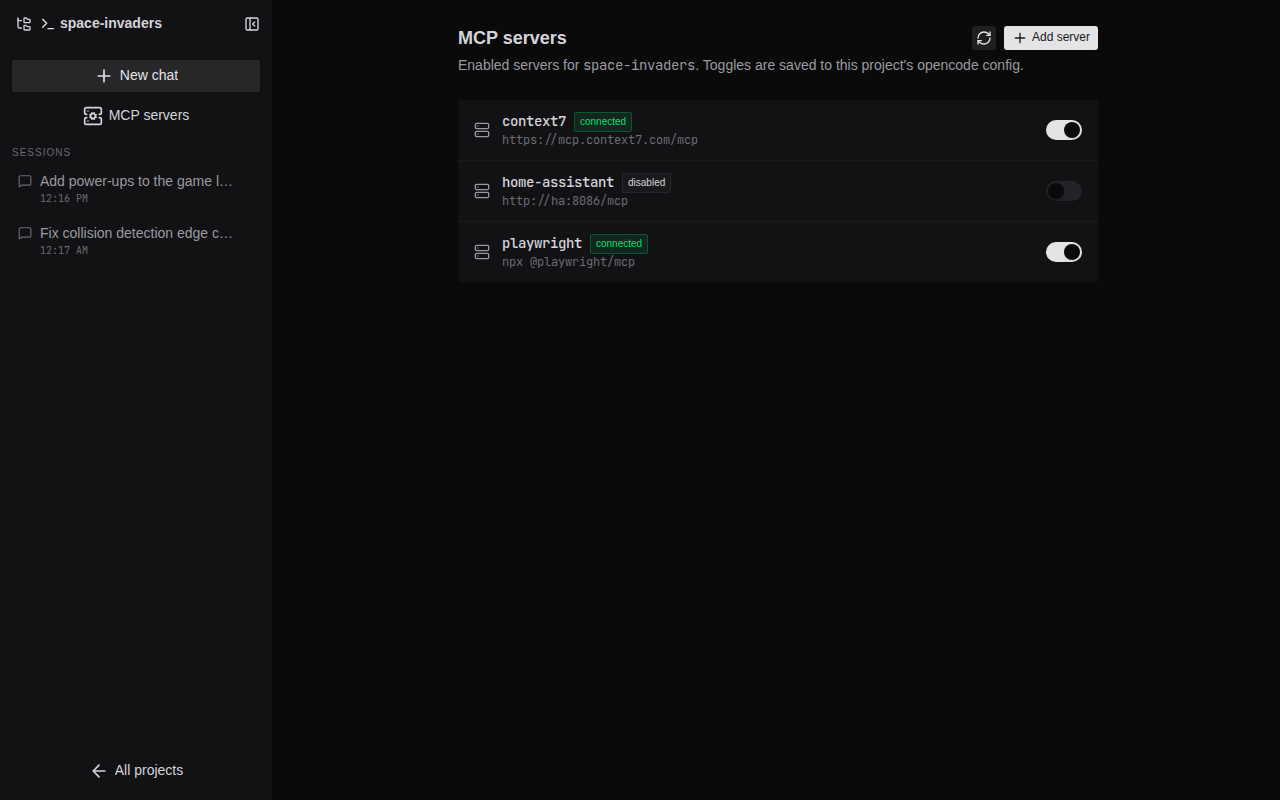
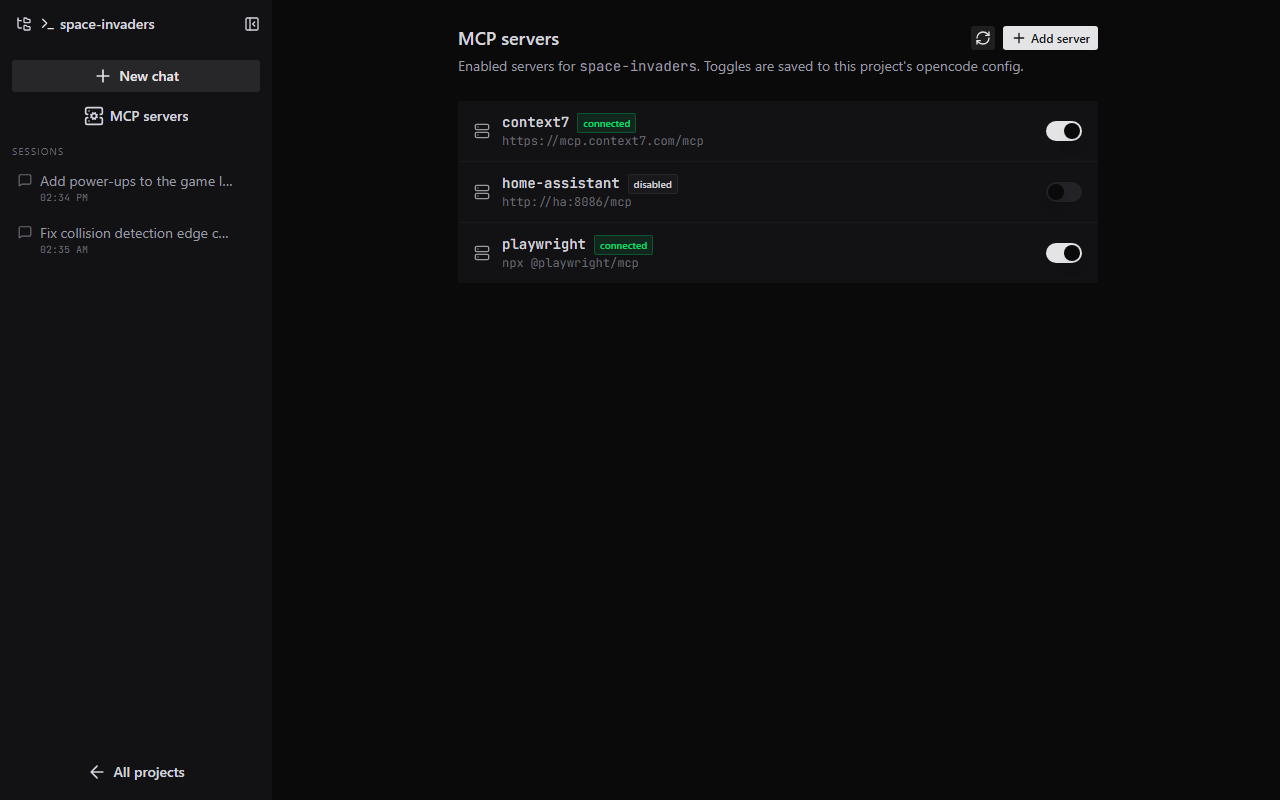
fix(chat): dedicated loading and empty states for the MCP options section
MCP section starts in a loading state (spinner + skeleton) with its own
flag so the providers cache can't hide it prematurely; when no servers
are configured it shows a hint with a link to the MCP settings page
instead of disappearing, and the 0/0 summary chip no longer appears.

diff --git a/app/components/chat/PromptBox.vue b/app/components/chat/PromptBox.vue
@@ -15,6 +15,7 @@ const props = defineProps<{
   busy: boolean
   directory: string
   metaLoading?: boolean
+  mcpLoading?: boolean
   queueLength?: number
 }>()
 
@@ -319,13 +320,36 @@ function onKeydown(e: KeyboardEvent) {
         </div>
 
         <!-- MCP: full row -->
-        <div v-if="mcpInfo.length || metaLoading" class="space-y-1.5">
+        <!-- loading: skeleton row while the server list is being fetched -->
+        <div v-if="mcpLoading" class="flex items-center gap-2 rounded-sm bg-elevated/60 px-2.5 py-2">
+          <UIcon name="i-lucide-loader-circle" class="size-3.5 animate-spin text-muted shrink-0" />
+          <span class="text-xs text-muted">Loading MCP servers…</span>
+          <USkeleton class="h-4 flex-1 max-w-40" />
+        </div>
+
+        <!-- loaded but none configured: point at the MCP settings page -->
+        <div
+          v-else-if="!mcpInfo.length"
+          class="flex items-center gap-2 rounded-sm bg-elevated/60 px-2.5 py-2"
+        >
+          <UIcon name="i-lucide-server-off" class="size-3.5 text-dimmed shrink-0" />
+          <span class="text-xs text-muted flex-1">No MCP servers configured for this project.</span>
+          <UButton
+            size="xs"
+            variant="soft"
+            color="neutral"
+            icon="i-lucide-server-cog"
+            label="Configure MCP"
+            :to="`/p/${encodeDir(directory)}/mcp`"
+          />
+        </div>
+
+        <div v-else class="space-y-1.5">
           <div class="flex items-center gap-1.5">
             <USelect
               v-model="mcpMode"
               :items="mcpModeItems"
               value-key="value"
-              :loading="metaLoading"
               size="sm"
               class="flex-1"
               icon="i-lucide-server"
@@ -423,7 +447,14 @@ function onKeydown(e: KeyboardEvent) {
             <UIcon name="i-lucide-bot" class="size-3" />
             {{ agent }}
           </span>
-          <span v-if="mcpMode === 'custom'" class="hidden sm:flex items-center gap-1 shrink-0">
+          <span v-if="mcpLoading" class="hidden sm:flex items-center gap-1 shrink-0">
+            <UIcon name="i-lucide-loader-circle" class="size-3 animate-spin" />
+            mcp
+          </span>
+          <span
+            v-else-if="mcpMode === 'custom' && mcpInfo.length"
+            class="hidden sm:flex items-center gap-1 shrink-0"
+          >
             <UIcon name="i-lucide-server" class="size-3" />
             {{ enabledCount }}/{{ mcpInfo.length }} mcp
           </span>

diff --git a/app/pages/p/[dir]/session/[id].vue b/app/pages/p/[dir]/session/[id].vue
@@ -79,10 +79,12 @@ async function loadAll() {
 watch(sessionId, loadAll, { immediate: true })
 
 const metaLoading = ref(true)
+const mcpLoading = ref(true)
 const providersCacheKey = computed(() => `opencode-web.providers.${directory.value}`)
 
 async function loadMeta() {
   metaLoading.value = true
+  mcpLoading.value = true
   // stale-while-revalidate: paint the model list instantly from cache so a
   // slow or flaky connection never leaves the selector empty
   try {
@@ -113,8 +115,10 @@ async function loadMeta() {
         tools: toolIds.filter((id) => id.startsWith(`${name}_`)).sort()
       }))
       .sort((a, b) => a.name.localeCompare(b.name))
+    mcpLoading.value = false
   } finally {
     metaLoading.value = false
+    mcpLoading.value = false
   }
 }
 
@@ -364,6 +368,7 @@ useHead(() => ({ title: `${session.value?.title || 'Chat'} · opencode web` }))
       :providers="providers"
       :agents="agents"
       :mcp-info="mcpInfo"
+      :mcp-loading="mcpLoading"
       :meta-loading="metaLoading"
       :queue-length="queue.length"
       :busy="busy"
